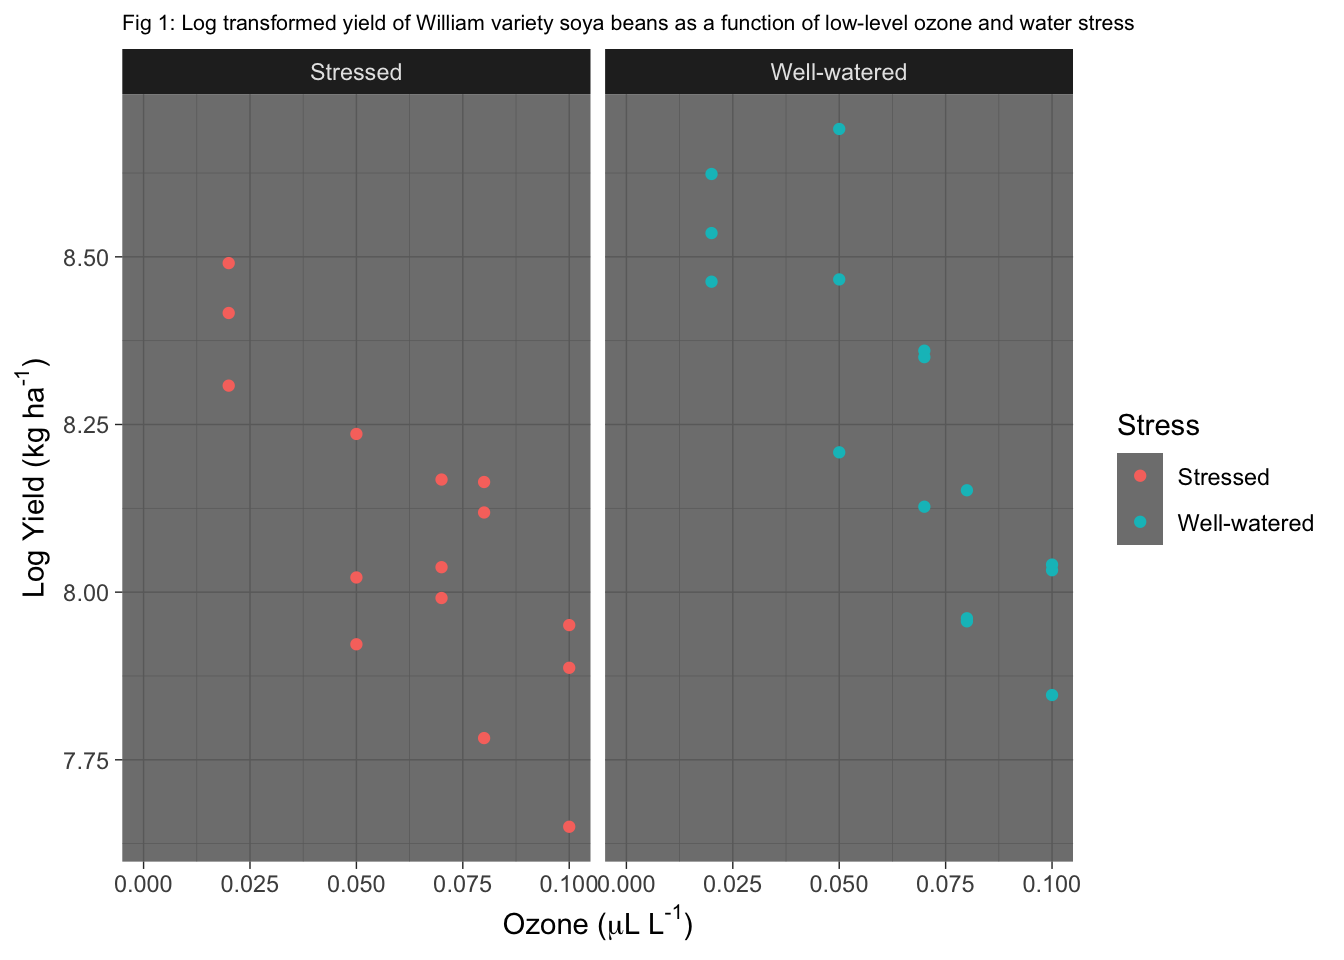
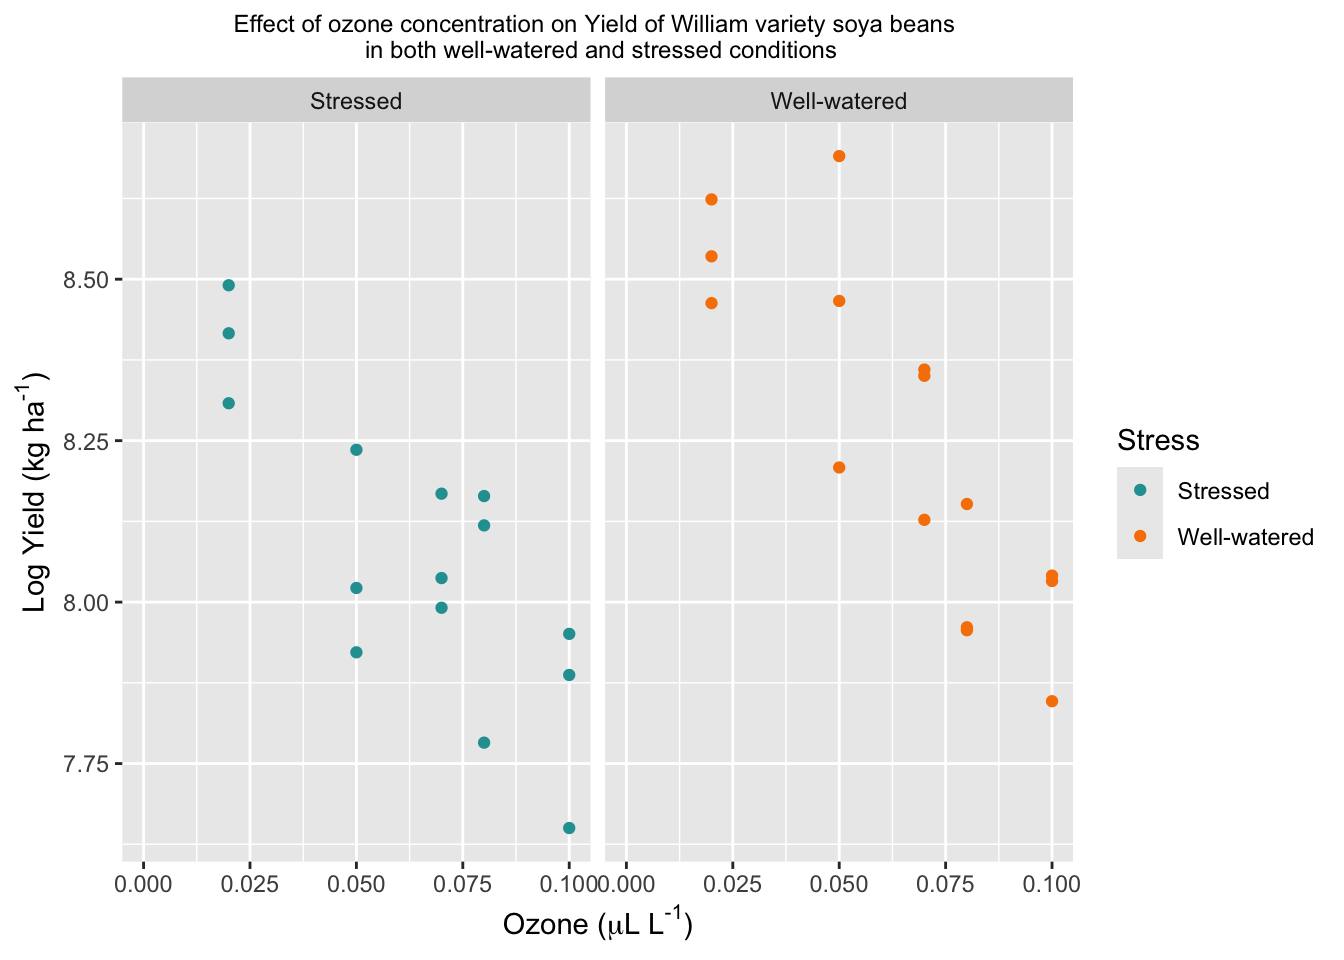
Starting the model analysis

diff --git a/quarto_and_linear_models_class.html b/quarto_and_linear_models_class.html
@@ -77,12 +77,12 @@ pre > code.sourceCode > span > a:first-child::before { text-decoration: underlin
       .quarto-title-block .quarto-title-banner h5,
       .quarto-title-block .quarto-title-banner h6
       {
-        color: black;
+        color: white;
       }
 
       .quarto-title-block .quarto-title-banner {
-        color: black;
-background: #42daec;
+        color: white;
+background: #249ea0;
       }
 </style>
 
@@ -95,7 +95,7 @@ background: #42daec;
   <div class="quarto-title-banner page-columns page-full">
     <div class="quarto-title column-body">
       <h1 class="title">Linear models and Quarto</h1>
-            <p class="subtitle lead">Week 2 Pratical</p>
+            <p class="subtitle lead">Week 2 Practical</p>
                       </div>
   </div>
     
@@ -127,11 +127,11 @@ background: #42daec;
   </ul></li>
   <li><a href="#linear-model-stuff" id="toc-linear-model-stuff" class="nav-link" data-scroll-target="#linear-model-stuff"><span class="header-section-number">2</span> Linear Model Stuff</a>
   <ul class="collapse">
-  <li><a href="#packages" id="toc-packages" class="nav-link" data-scroll-target="#packages"><span class="header-section-number">2.1</span> Packages</a>
-  <ul class="collapse">
-  <li><a href="#examining-dataset" id="toc-examining-dataset" class="nav-link" data-scroll-target="#examining-dataset"><span class="header-section-number">2.1.1</span> Examining Dataset</a></li>
-  <li><a href="#transforming-data" id="toc-transforming-data" class="nav-link" data-scroll-target="#transforming-data"><span class="header-section-number">2.1.2</span> Transforming Data</a></li>
-  </ul></li>
+  <li><a href="#packages" id="toc-packages" class="nav-link" data-scroll-target="#packages"><span class="header-section-number">2.1</span> Packages</a></li>
+  <li><a href="#examining-dataset" id="toc-examining-dataset" class="nav-link" data-scroll-target="#examining-dataset"><span class="header-section-number">2.2</span> Examining Dataset</a></li>
+  <li><a href="#transforming-data" id="toc-transforming-data" class="nav-link" data-scroll-target="#transforming-data"><span class="header-section-number">2.3</span> Transforming Data</a></li>
+  <li><a href="#graphing-data" id="toc-graphing-data" class="nav-link" data-scroll-target="#graphing-data"><span class="header-section-number">2.4</span> Graphing Data</a></li>
+  <li><a href="#analysis" id="toc-analysis" class="nav-link" data-scroll-target="#analysis"><span class="header-section-number">2.5</span> Analysis</a></li>
   </ul></li>
   </ul>
 </nav>
@@ -181,62 +181,33 @@ To do subscript put numbers or text in between ~ ~ e.g.&nbsp;H<sub>2</sub>O</p>
 <span id="cb4-3"><a href="#cb4-3" aria-hidden="true" tabindex="-1"></a><span class="fu">library</span>(arm)</span></code><button title="Copy to Clipboard" class="code-copy-button"><i class="bi"></i></button></pre></div>
 </div>
 <p>Using the dataframe case1402, which is from Sleuth3 package. Came from an experiment on effects of drought and 2 low level pollutants (ozone and sulphur dioxide). Used two varieties of soya beans, Forrest and William. Looked at how individual stressors and interactions of them affects them.</p>
-<section id="examining-dataset" class="level3" data-number="2.1.1">
-<h3 data-number="2.1.1" class="anchored" data-anchor-id="examining-dataset"><span class="header-section-number">2.1.1</span> Examining Dataset</h3>
+</section>
+<section id="examining-dataset" class="level2" data-number="2.2">
+<h2 data-number="2.2" class="anchored" data-anchor-id="examining-dataset"><span class="header-section-number">2.2</span> Examining Dataset</h2>
 <div class="cell">
-<div class="sourceCode cell-code" id="cb5"><pre class="sourceCode r code-with-copy"><code class="sourceCode r"><span id="cb5-1"><a href="#cb5-1" aria-hidden="true" tabindex="-1"></a><span class="fu">head</span>(case1402)</span></code><button title="Copy to Clipboard" class="code-copy-button"><i class="bi"></i></button></pre></div>
-<div class="cell-output cell-output-stdout">
-<pre><code>        Stress  SO2   O3 Forrest William
-1 Well-watered 0.00 0.02    4376    5561
-2 Well-watered 0.00 0.05    4544    5947
-3 Well-watered 0.00 0.07    2806    4273
-4 Well-watered 0.00 0.08    3339    3470
-5 Well-watered 0.00 0.10    3320    3080
-6 Well-watered 0.02 0.02    3747    5092</code></pre>
-</div>
-<div class="sourceCode cell-code" id="cb7"><pre class="sourceCode r code-with-copy"><code class="sourceCode r"><span id="cb7-1"><a href="#cb7-1" aria-hidden="true" tabindex="-1"></a><span class="fu">str</span>(case1402) <span class="co">#lets you see the structure of the dataset</span></span></code><button title="Copy to Clipboard" class="code-copy-button"><i class="bi"></i></button></pre></div>
-<div class="cell-output cell-output-stdout">
-<pre><code>'data.frame':   30 obs. of  5 variables:
- $ Stress : Factor w/ 2 levels "Stressed","Well-watered": 2 2 2 2 2 2 2 2 2 2 ...
- $ SO2    : num  0 0 0 0 0 0.02 0.02 0.02 0.02 0.02 ...
- $ O3     : num  0.02 0.05 0.07 0.08 0.1 0.02 0.05 0.07 0.08 0.1 ...
- $ Forrest: int  4376 4544 2806 3339 3320 3747 4570 4635 3613 3259 ...
- $ William: int  5561 5947 4273 3470 3080 5092 4752 4232 2867 3106 ...</code></pre>
-</div>
+<div class="sourceCode cell-code" id="cb5"><pre class="sourceCode r code-with-copy"><code class="sourceCode r"><span id="cb5-1"><a href="#cb5-1" aria-hidden="true" tabindex="-1"></a><span class="fu">head</span>(case1402)</span>
+<span id="cb5-2"><a href="#cb5-2" aria-hidden="true" tabindex="-1"></a><span class="fu">str</span>(case1402) <span class="co">#lets you see the structure of the dataset</span></span></code><button title="Copy to Clipboard" class="code-copy-button"><i class="bi"></i></button></pre></div>
 </div>
 <p>Structure is that there are 30 rows and 5 columns.</p>
 <div class="cell">
-<div class="sourceCode cell-code" id="cb9"><pre class="sourceCode r code-with-copy"><code class="sourceCode r"><span id="cb9-1"><a href="#cb9-1" aria-hidden="true" tabindex="-1"></a><span class="fu">summary</span>(case1402)</span></code><button title="Copy to Clipboard" class="code-copy-button"><i class="bi"></i></button></pre></div>
-<div class="cell-output cell-output-stdout">
-<pre><code>          Stress        SO2                O3           Forrest    
- Stressed    :15   Min.   :0.00000   Min.   :0.020   Min.   :2158  
- Well-watered:15   1st Qu.:0.00000   1st Qu.:0.050   1st Qu.:3245  
-                   Median :0.02000   Median :0.070   Median :3478  
-                   Mean   :0.02667   Mean   :0.064   Mean   :3699  
-                   3rd Qu.:0.06000   3rd Qu.:0.080   3rd Qu.:4327  
-                   Max.   :0.06000   Max.   :0.100   Max.   :5573  
-    William    
- Min.   :2101  
- 1st Qu.:2889  
- Median :3428  
- Mean   :3635  
- 3rd Qu.:4263  
- Max.   :5947  </code></pre>
-</div>
+<div class="sourceCode cell-code" id="cb6"><pre class="sourceCode r code-with-copy"><code class="sourceCode r"><span id="cb6-1"><a href="#cb6-1" aria-hidden="true" tabindex="-1"></a><span class="fu">summary</span>(case1402)</span></code><button title="Copy to Clipboard" class="code-copy-button"><i class="bi"></i></button></pre></div>
 </div>
 </section>
-<section id="transforming-data" class="level3" data-number="2.1.2">
-<h3 data-number="2.1.2" class="anchored" data-anchor-id="transforming-data"><span class="header-section-number">2.1.2</span> Transforming Data</h3>
+<section id="transforming-data" class="level2" data-number="2.3">
+<h2 data-number="2.3" class="anchored" data-anchor-id="transforming-data"><span class="header-section-number">2.3</span> Transforming Data</h2>
 <p>General rule of thumb is that yield data should be log transformed. Can either nest the log() function inside other functions, or the easier way would be to create a new column including log transformed data.</p>
 <div class="cell" data-label="Adding Log transformed column">
-<div class="sourceCode cell-code" id="cb11"><pre class="sourceCode r code-with-copy"><code class="sourceCode r"><span id="cb11-1"><a href="#cb11-1" aria-hidden="true" tabindex="-1"></a>case1402<span class="sc">$</span>log_William <span class="ot">&lt;-</span> <span class="fu">log</span>(case1402<span class="sc">$</span>William) <span class="co">#Adds log yield column.</span></span></code><button title="Copy to Clipboard" class="code-copy-button"><i class="bi"></i></button></pre></div>
+<div class="sourceCode cell-code" id="cb7"><pre class="sourceCode r code-with-copy"><code class="sourceCode r"><span id="cb7-1"><a href="#cb7-1" aria-hidden="true" tabindex="-1"></a>case1402<span class="sc">$</span>log_William <span class="ot">&lt;-</span> <span class="fu">log</span>(case1402<span class="sc">$</span>William) <span class="co">#Adds log yield column.</span></span></code><button title="Copy to Clipboard" class="code-copy-button"><i class="bi"></i></button></pre></div>
 </div>
-<p>### Graphing Data</p>
+</section>
+<section id="graphing-data" class="level2" data-number="2.4">
+<h2 data-number="2.4" class="anchored" data-anchor-id="graphing-data"><span class="header-section-number">2.4</span> Graphing Data</h2>
 <p>Create objects for x and y axis labels.</p>
 <div class="cell" data-label="Creating axis title objects" data-outout="false">
-<div class="sourceCode cell-code" id="cb12"><pre class="sourceCode r code-with-copy"><code class="sourceCode r"><span id="cb12-1"><a href="#cb12-1" aria-hidden="true" tabindex="-1"></a>xlabel <span class="ot">&lt;-</span> <span class="fu">expression</span>(<span class="fu">paste</span>(<span class="st">"Ozone ("</span>, mu,<span class="st">"L L"</span><span class="sc">^</span><span class="st">"-1"</span>,<span class="st">")"</span>))</span>
-<span id="cb12-2"><a href="#cb12-2" aria-hidden="true" tabindex="-1"></a><span class="co">#expression paste used as have complex symbols, cant just enter as a string. </span></span>
-<span id="cb12-3"><a href="#cb12-3" aria-hidden="true" tabindex="-1"></a>ylabel <span class="ot">&lt;-</span> <span class="fu">expression</span>(<span class="fu">paste</span>(<span class="st">"Log Yield (kg ha"</span><span class="sc">^</span><span class="st">"-1"</span>,<span class="st">")"</span>))</span></code><button title="Copy to Clipboard" class="code-copy-button"><i class="bi"></i></button></pre></div>
+<div class="sourceCode cell-code" id="cb8"><pre class="sourceCode r code-with-copy"><code class="sourceCode r"><span id="cb8-1"><a href="#cb8-1" aria-hidden="true" tabindex="-1"></a>xlabel <span class="ot">&lt;-</span> <span class="fu">expression</span>(<span class="fu">paste</span>(<span class="st">"Ozone ("</span>, mu,<span class="st">"L L"</span><span class="sc">^</span><span class="st">"-1"</span>,<span class="st">")"</span>))</span>
+<span id="cb8-2"><a href="#cb8-2" aria-hidden="true" tabindex="-1"></a>ylabel <span class="ot">&lt;-</span> <span class="fu">expression</span>(<span class="fu">paste</span>(<span class="st">"Log Yield (kg ha"</span><span class="sc">^</span><span class="st">"-1"</span>,<span class="st">")"</span>))</span>
+<span id="cb8-3"><a href="#cb8-3" aria-hidden="true" tabindex="-1"></a></span>
+<span id="cb8-4"><a href="#cb8-4" aria-hidden="true" tabindex="-1"></a><span class="co">#expression paste used as have complex symbols, cant just enter as a string. </span></span></code><button title="Copy to Clipboard" class="code-copy-button"><i class="bi"></i></button></pre></div>
 </div>
 <p>Visualise data in a panel plot of yield versus ozone, facetted by water stress:</p>
 <div class="cell" data-label="Visualising Data">
@@ -248,7 +219,11 @@ To do subscript put numbers or text in between ~ ~ e.g.&nbsp;H<sub>2</sub>O</p>
 </div>
 </div>
 </div>
+<p>Fig 1: Log transformed yield of William variety soya beans as a function of low-level ozone and water stress</p>
 </section>
+<section id="analysis" class="level2" data-number="2.5">
+<h2 data-number="2.5" class="anchored" data-anchor-id="analysis"><span class="header-section-number">2.5</span> Analysis</h2>
+<p>Question 1 - Fit an ANOVA to the</p>
 </section>
 </section>
 
